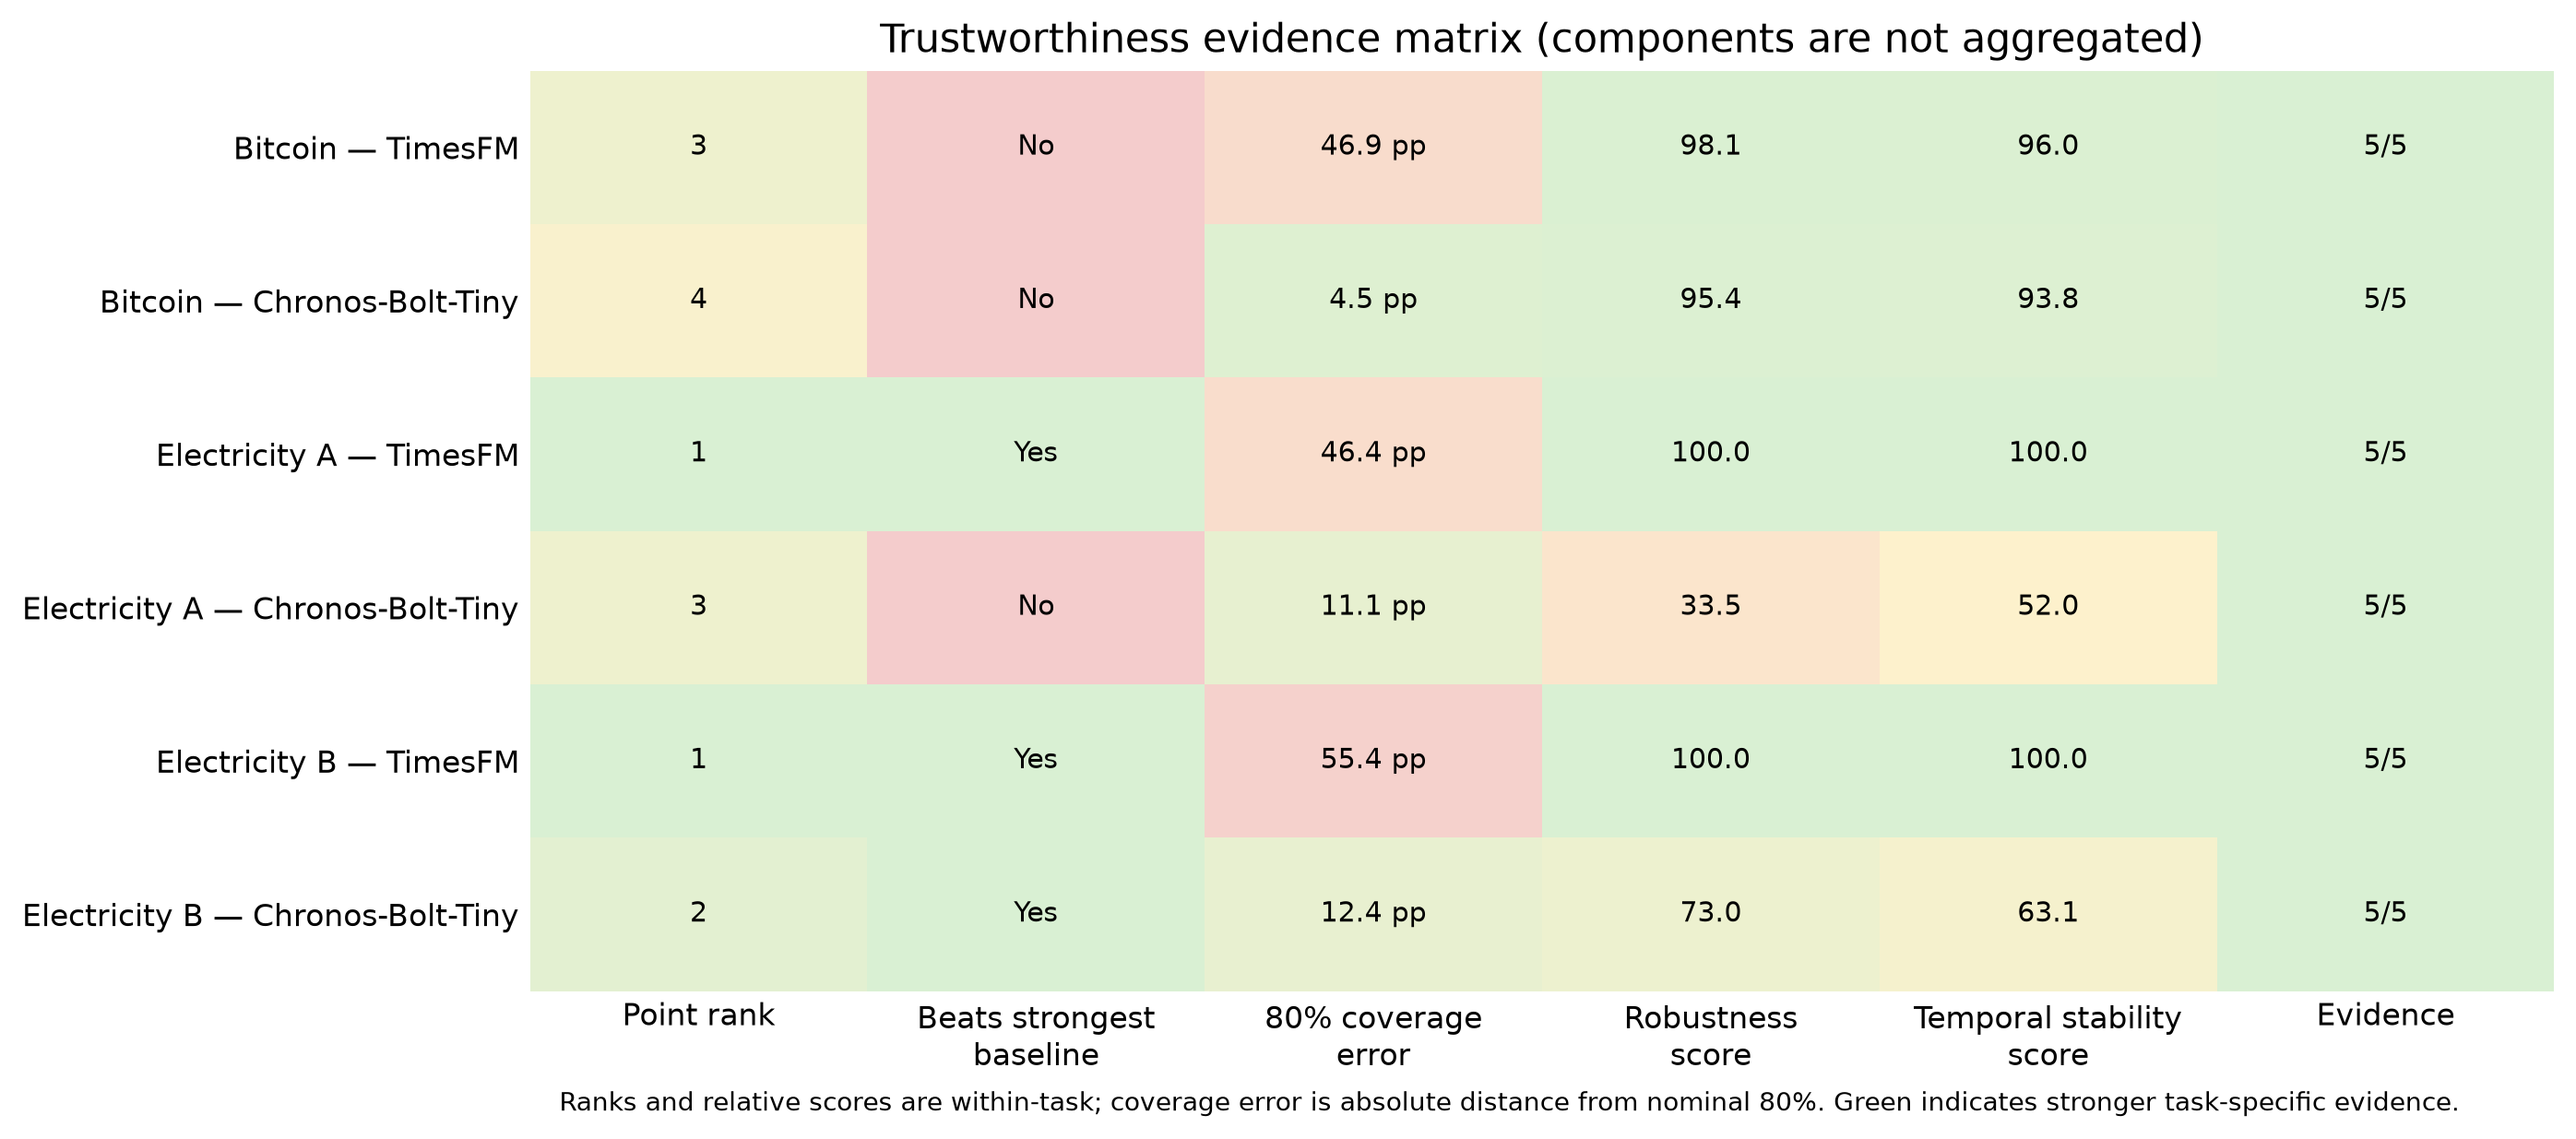
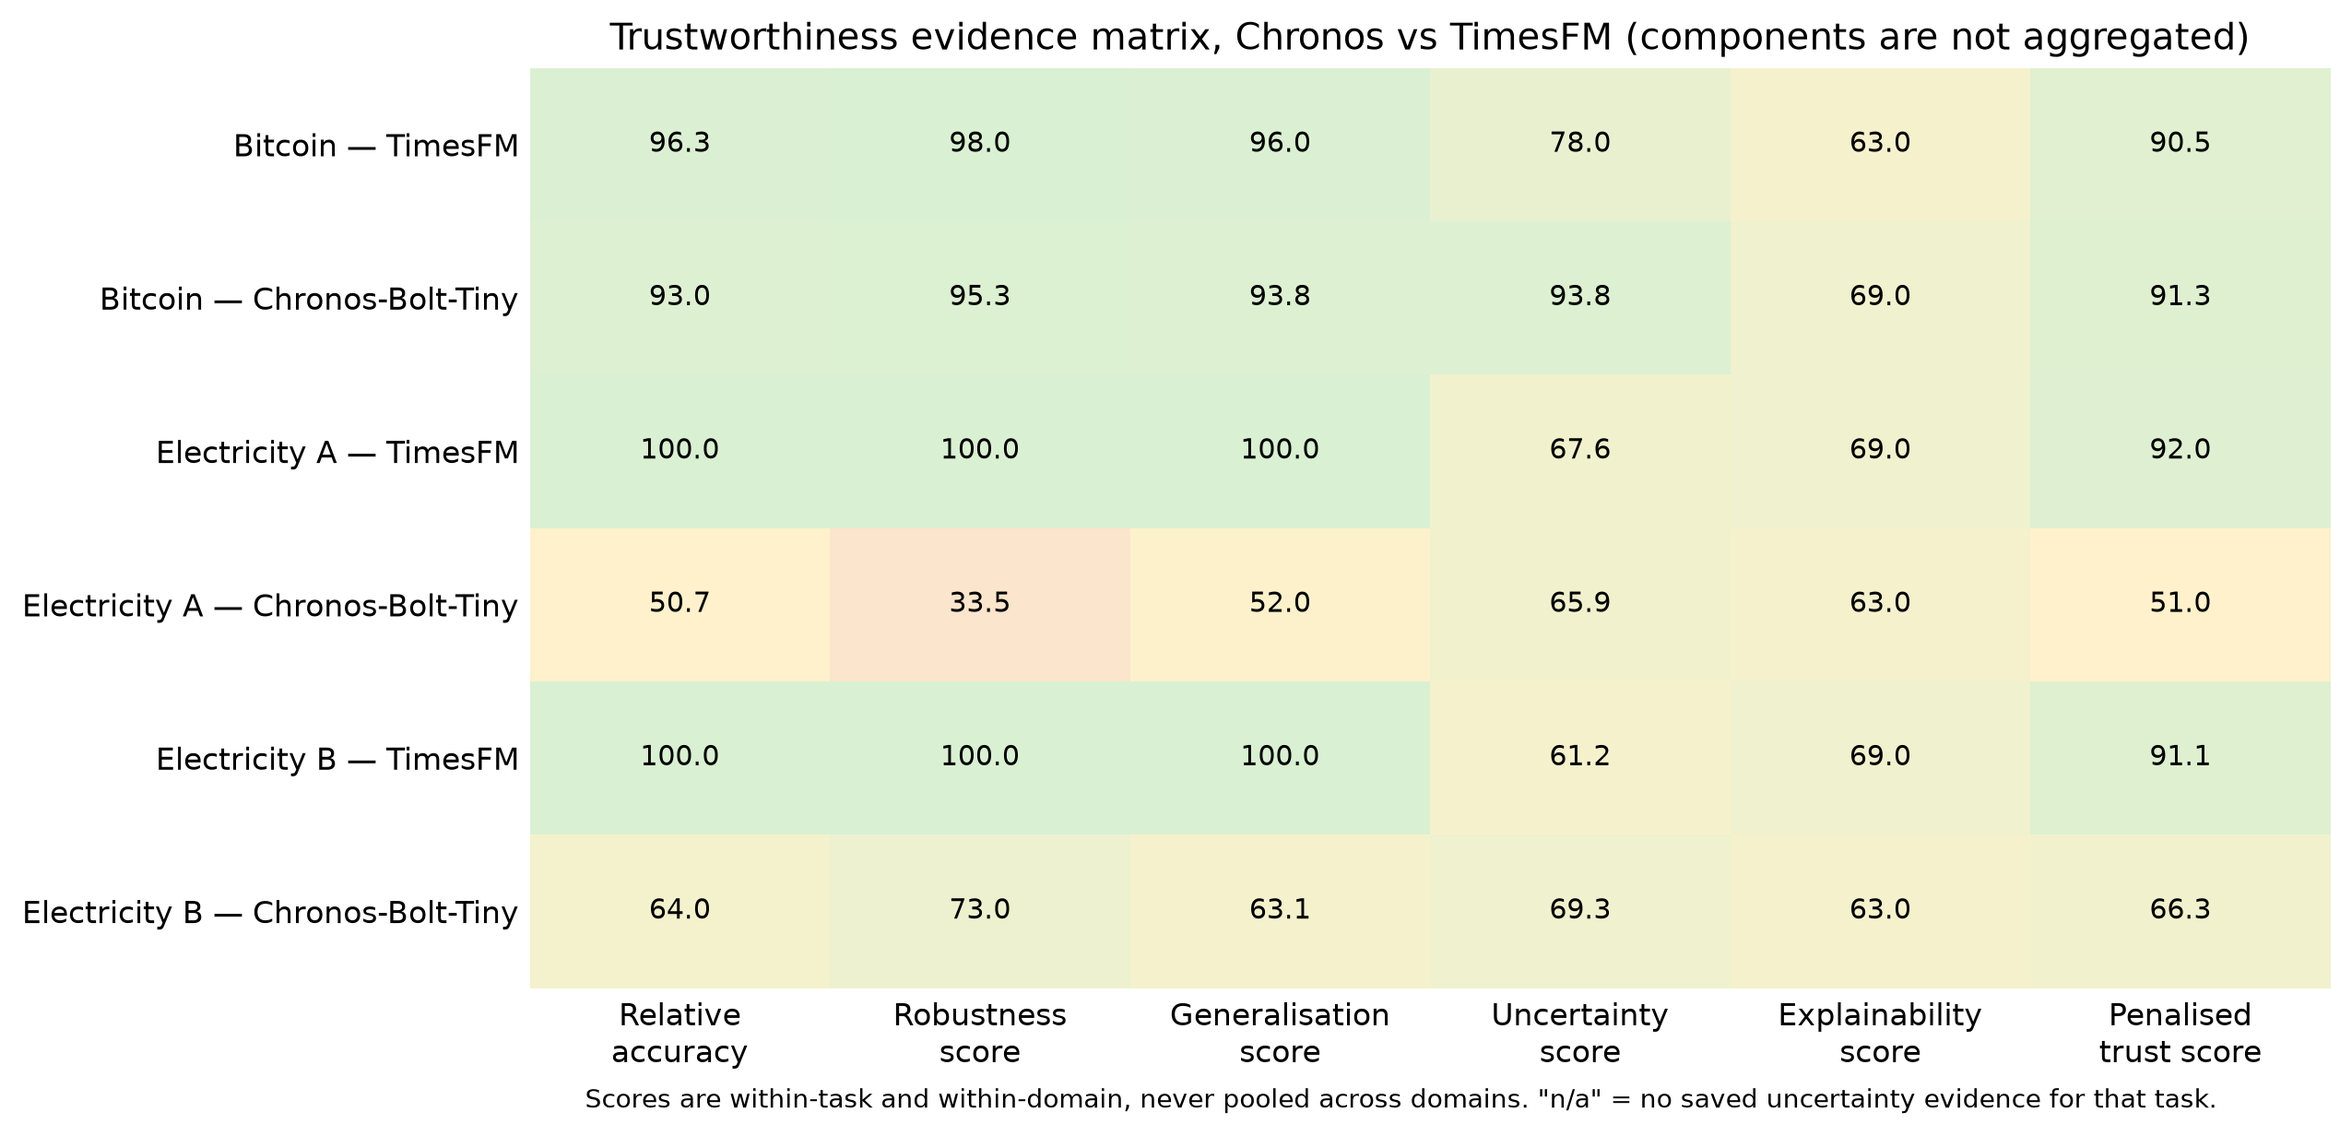
Regenerate figures/cross_domain/*.png from the rebuilt 8-family comparison data
All four cross-domain figures reflected the stale 4-common-model Bitcoin set. Added
src/build_cross_domain_figures.py, a standalone script that reads only
results/cross_domain_*.csv and writes only figures/cross_domain/ (deliberately
separate from src/generate_paper_figures.py's main(), which also regenerates
Bitcoin/Electricity per-domain figures that are out of scope here).

- model_rank_across_domains.png: now plots all 8 comparable model families instead
  of 4-5, out of each task's full roster (Bitcoin /10, Electricity /13).
- foundation_model_relative_baseline.png: now compares against each protocol's
  CURRENT strongest baseline (SARIMA for both Electricity protocols) with the
  baseline model name annotated on each bar, rather than a fixed baseline label.
- uncertainty_calibration_across_domains.png: filters to native-only coverage rows
  (the uncertainty CSV now also carries Bitcoin's calibrated rows, which this native-
  coverage figure correctly excludes rather than mixing in).
- trustworthiness_evidence_matrix.png: rebuilt from cross_domain_trust_comparison.csv
  with the same visual design, values now traced to the 8-family comparison table.

Verified each regenerated figure against the notebook's own freshly-computed data
(model_rank_across_domains.png matches cross_domain_rank_stability.csv exactly;
foundation_model_relative_baseline.png matches the significant SARIMA/TimesFM finding
[…]

diff --git a/src/build_cross_domain_figures.py b/src/build_cross_domain_figures.py
@@ -1,0 +1,141 @@
+"""Regenerate figures/cross_domain/*.png from the rebuilt cross-domain CSVs only.
+
+Deliberately standalone from src/generate_paper_figures.py's main(), which also
+regenerates Bitcoin and Electricity per-domain figures -- this script touches nothing
+outside figures/cross_domain/. Reads only results/cross_domain_*.csv.
+"""
+
+from __future__ import annotations
+
+from pathlib import Path
+
+import matplotlib.pyplot as plt
+import numpy as np
+import pandas as pd
+
+ROOT = Path(__file__).resolve().parents[1]
+RESULTS = ROOT / "results"
+FIGURES = ROOT / "figures" / "cross_domain"
+
+TASK_MAP = {
+    "Rolling one-step daily": "Bitcoin",
+    "Protocol A: rolling one-step 30-minute": "Electricity A",
+    "Protocol B: 48-step day-ahead": "Electricity B",
+}
+TASKS = ["Bitcoin", "Electricity A", "Electricity B"]
+FAMILY_COLORS = {
+    "Naive": "#0072B2", "Chronos-Bolt-Tiny": "#CC79A7", "TimesFM": "#D55E00",
+    "ARIMA-family (best)": "#56B4E9", "Prophet": "#E69F00", "Simple Exponential Smoothing": "#009E73",
+    "Holt-Winters": "#9467BD", "LSTM-family": "#F0E442",
+}
+
+
+def save(fig, path):
+    path.parent.mkdir(parents=True, exist_ok=True)
+    fig.savefig(path, dpi=240, bbox_inches="tight")
+    plt.close(fig)
+
+
+def model_rank_figure():
+    rank = pd.read_csv(RESULTS / "cross_domain_rank_stability.csv")
+    fig, ax = plt.subplots(figsize=(9.5, 5.5))
+    x = np.arange(3)
+    for _, row in rank.iterrows():
+        y = [row.Bitcoin_Rank, row.Electricity_Protocol_A_Rank, row.Electricity_Protocol_B_Rank]
+        ax.plot(x, y, marker="o", lw=2, label=row.Model_Family, color=FAMILY_COLORS.get(row.Model_Family))
+    ax.set_xticks(x, TASKS)
+    ax.set_yticks(range(1, 14))
+    ax.invert_yaxis()
+    ax.set(ylabel="Within-domain rank (1 = best; Bitcoin out of 10, Electricity out of 13)",
+           title="Model-family rank across domains and protocols")
+    ax.legend(frameon=False, ncol=2, fontsize=8, loc="lower center", bbox_to_anchor=(0.5, -0.32))
+    ax.grid(alpha=.2)
+    save(fig, FIGURES / "model_rank_across_domains.png")
+
+
+def foundation_baseline_figure():
+    fm = pd.read_csv(RESULTS / "cross_domain_foundation_model_comparison.csv")
+    fm["Task"] = fm["Protocol"].map(TASK_MAP)
+    fig, ax = plt.subplots(figsize=(9, 5))
+    x = np.arange(len(TASKS))
+    width = 0.36
+    for i, model in enumerate(["TimesFM", "Chronos-Bolt-Tiny"]):
+        q = fm[fm.Model.eq(model)].set_index("Task").reindex(TASKS)
+        bars = ax.bar(x + (i - .5) * width, q.Relative_MAE_Difference_Percent, width,
+                       label=model, color=FAMILY_COLORS.get(model))
+        for xi, (_, r) in zip(x + (i - .5) * width, q.iterrows()):
+            ax.annotate(r.Strongest_Baseline, (xi, r.Relative_MAE_Difference_Percent),
+                        textcoords="offset points", xytext=(0, 6 if r.Relative_MAE_Difference_Percent >= 0 else -14),
+                        ha="center", fontsize=7, rotation=0)
+    ax.axhline(0, color="#222", lw=1)
+    ax.set_xticks(x, TASKS)
+    ax.set(ylabel="MAE difference vs. current strongest same-task baseline (%)",
+           title="Foundation models relative to each task's current strongest baseline\n(baseline model annotated above/below each bar)")
+    ax.legend(frameon=False)
+    ax.grid(axis="y", alpha=.2)
+    save(fig, FIGURES / "foundation_model_relative_baseline.png")
+
+
+def uncertainty_figure():
+    unc = pd.read_csv(RESULTS / "cross_domain_uncertainty_comparison.csv")
+    native = unc[unc.Calibration_Type == "Native"].copy()
+    native["Task"] = native["Protocol"].map(TASK_MAP)
+    fig, ax = plt.subplots(figsize=(8.8, 4.9))
+    x = np.arange(len(TASKS))
+    width = 0.34
+    for i, model in enumerate(["Chronos-Bolt-Tiny", "TimesFM"]):
+        q = native[native.Model.eq(model)].set_index("Task").reindex(TASKS)
+        ax.bar(x + (i - .5) * width, 100 * q.Empirical_Coverage, width, label=model, color=FAMILY_COLORS.get(model))
+    ax.axhline(80, color="#222222", ls="--", lw=1.5, label="Nominal 80%")
+    ax.set_xticks(x, TASKS)
+    ax.set(ylim=(0, 100), ylabel="Empirical marginal coverage (%)",
+           title="Native 80% interval coverage across completed tasks")
+    ax.legend(frameon=False, ncol=3, loc="upper center")
+    ax.grid(axis="y", alpha=.2)
+    save(fig, FIGURES / "uncertainty_calibration_across_domains.png")
+
+
+def trustworthiness_matrix_figure():
+    trust = pd.read_csv(RESULTS / "cross_domain_trust_comparison.csv")
+    trust = trust[trust.Model_Family.isin(["Chronos-Bolt-Tiny", "TimesFM"])].copy()
+    trust["Task"] = trust["Protocol"].map(TASK_MAP)
+    rows = pd.MultiIndex.from_product([TASKS, ["TimesFM", "Chronos-Bolt-Tiny"]], names=["Task", "Model_Family"])
+    q = trust.set_index(["Task", "Model_Family"]).reindex(rows).reset_index()
+    columns = ["Relative\naccuracy", "Robustness\nscore", "Generalisation\nscore", "Uncertainty\nscore", "Explainability\nscore", "Penalised\ntrust score"]
+    values, colours = [], []
+    for _, r in q.iterrows():
+        unc = r.Uncertainty_Score
+        values.append([f"{r.Relative_Accuracy_Score:.1f}", f"{r.Relative_Robustness_Score:.1f}",
+                        f"{r.Relative_Generalisation_Score:.1f}", "n/a" if pd.isna(unc) else f"{unc:.1f}",
+                        f"{r.Explainability_Score:.1f}", f"{r.Penalised_Trust_Score:.1f}"])
+        colours.append([1 - r.Relative_Accuracy_Score / 100, 1 - r.Relative_Robustness_Score / 100,
+                         1 - r.Relative_Generalisation_Score / 100, .5 if pd.isna(unc) else 1 - unc / 100,
+                         1 - r.Explainability_Score / 100, 1 - r.Penalised_Trust_Score / 100])
+    from matplotlib.colors import LinearSegmentedColormap
+    cmap = LinearSegmentedColormap.from_list("evidence", ["#D9F0D3", "#FFF2CC", "#F4CCCC"])
+    fig, ax = plt.subplots(figsize=(10.5, 5.4))
+    ax.imshow(np.asarray(colours, dtype=float), cmap=cmap, vmin=0, vmax=1, aspect="auto")
+    ax.set_xticks(np.arange(len(columns)), columns)
+    ax.set_yticks(np.arange(len(q)), [f"{t} — {m}" for t, m in zip(q.Task, q.Model_Family)])
+    for i, row in enumerate(values):
+        for j, value in enumerate(row):
+            ax.text(j, i, value, ha="center", va="center", fontsize=9)
+    ax.set_title("Trustworthiness evidence matrix, Chronos vs TimesFM (components are not aggregated)")
+    ax.tick_params(length=0)
+    for spine in ax.spines.values():
+        spine.set_visible(False)
+    fig.text(.5, .01, "Scores are within-task and within-domain, never pooled across domains. \"n/a\" = no saved uncertainty evidence for that task.", ha="center", fontsize=8.5)
+    save(fig, FIGURES / "trustworthiness_evidence_matrix.png")
+
+
+def main():
+    plt.rcParams.update({"font.size": 10, "axes.titlesize": 12, "axes.labelsize": 11, "figure.facecolor": "white"})
+    model_rank_figure()
+    foundation_baseline_figure()
+    uncertainty_figure()
+    trustworthiness_matrix_figure()
+    print("Regenerated 4 figures in", FIGURES)
+
+
+if __name__ == "__main__":
+    main()
